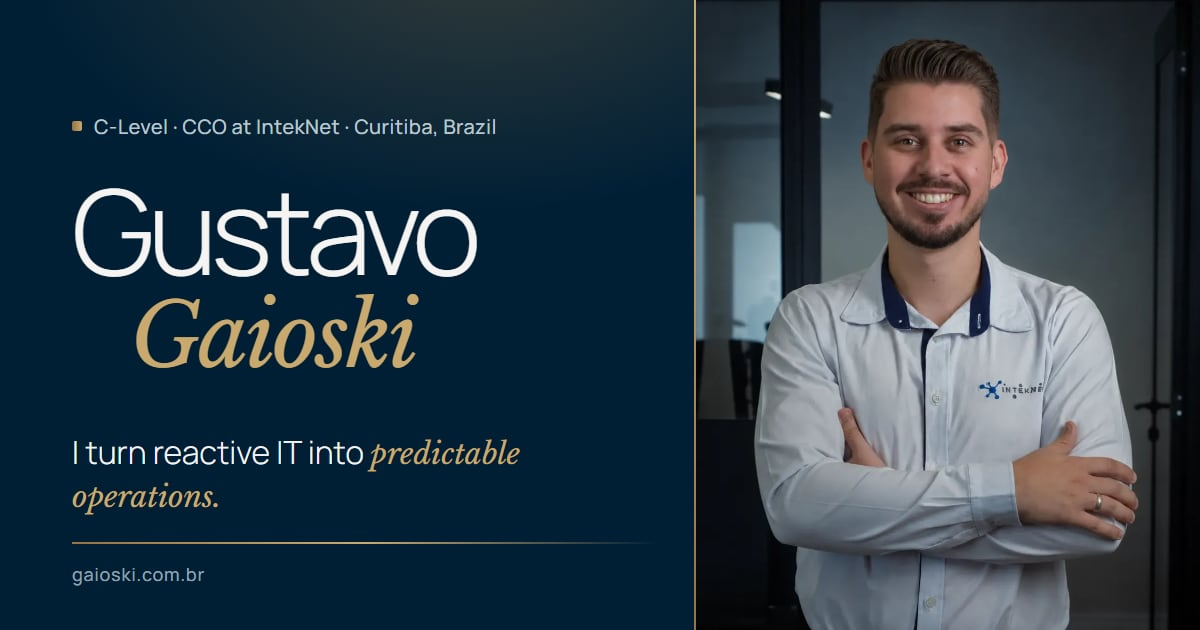
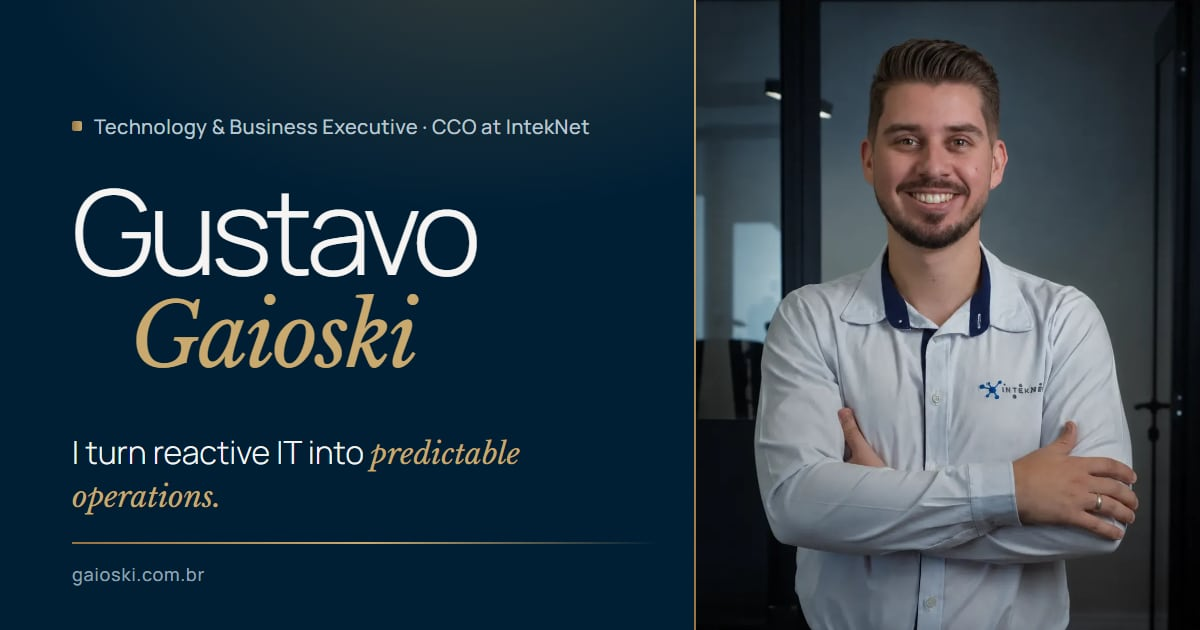
content: 'Executivo de Tecnologia e Negócios · CCO' no lugar de C-Level; volume de ~6 mil chamados/ano

Changed region(s): [[0.0617, 0.181, 0.4933, 0.2413]]

diff --git a/index.html b/index.html
@@ -6,7 +6,7 @@
   <meta http-equiv="Content-Security-Policy" content="default-src 'self'; img-src 'self' data:; style-src 'self'; font-src 'self'; script-src 'self'; connect-src 'self'; object-src 'none'; base-uri 'self'; form-action 'none'">
   <meta name="referrer" content="strict-origin-when-cross-origin">
   <title>Gustavo Gaioski · Tecnologia, infraestrutura e operações de TI</title>
-  <meta name="description" content="Gustavo Gaioski, C-Level (CCO) na IntekNet, em Curitiba. Onze anos em infraestrutura, Microsoft 365 e segurança; hoje à frente de novos negócios, parcerias e arquitetura de soluções.">
+  <meta name="description" content="Gustavo Gaioski, executivo de tecnologia e negócios, CCO na IntekNet, em Curitiba. Onze anos em infraestrutura, Microsoft 365 e segurança; hoje à frente de novos negócios, parcerias e arquitetura de soluções.">
   <link rel="canonical" href="https://gaioski.com.br/">
   <link rel="alternate" hreflang="pt-BR" href="https://gaioski.com.br/">
   <link rel="alternate" hreflang="en" href="https://gaioski.com.br/en/">
@@ -23,7 +23,7 @@
   <meta property="og:locale:alternate" content="en_US">
   <meta property="og:url" content="https://gaioski.com.br/">
   <meta property="og:title" content="Gustavo Gaioski">
-  <meta property="og:description" content="C-Level · CCO na IntekNet. Novos negócios, parcerias e arquitetura de soluções de TI, em Curitiba.">
+  <meta property="og:description" content="Executivo de Tecnologia e Negócios · CCO na IntekNet. Novos negócios, parcerias e arquitetura de soluções de TI, em Curitiba.">
   <meta property="og:image" content="https://gaioski.com.br/assets/img/og-image.jpg">
   <meta property="og:image:width" content="1200">
   <meta property="og:image:height" content="630">
@@ -76,8 +76,8 @@
       <div class="wrap hero__grid">
         <div>
           <p class="hero__kicker">
-            <span class="dot">C-Level · CCO na IntekNet</span>
-            <span>Novos negócios · Arquitetura de soluções · Infraestrutura</span>
+            <span class="dot">Executivo de Tecnologia e Negócios · CCO na IntekNet</span>
+            <span>Liderança · Arquitetura de soluções · Novos negócios</span>
           </p>
           <h1>Gustavo <span>Gaioski</span></h1>
           <p class="hero__lede">Transformo TI reativa em <em>operação previsível.</em></p>
@@ -116,7 +116,7 @@
             <footer>de um caso real, 2026</footer>
           </blockquote>
           <div class="about__text">
-            <p>Comecei em 2015 como estagiário de suporte, atendendo chamado de impressora e criando usuário no Active Directory. Onze anos depois continuo na mesma empresa, a IntekNet, agora no C-Level, como CCO. No meio do caminho passei por servidores, redes, firewall e Microsoft 365, e nos últimos anos pela gestão do time que cuida de tudo isso.</p>
+            <p>Comecei em 2015 como estagiário de suporte, atendendo chamado de impressora e criando usuário no Active Directory. Onze anos depois continuo na mesma empresa, a IntekNet, agora como CCO. No meio do caminho passei por servidores, redes, firewall e Microsoft 365, e nos últimos anos pela gestão do time que cuida de tudo isso.</p>
             <p>O que esse percurso me ensinou é que quase nenhum problema de TI é só técnico. O arquivo que não abre no OneDrive é arquitetura da informação. O backup que falha na restauração é falta de uma segunda camada. A pessoa que passa o primeiro dia esperando acesso é processo. Gosto de achar a causa antes de trocar a peça.</p>
             <p>Hoje estou à frente de novos negócios, parcerias e do crescimento da empresa. Na prática, isso quer dizer entrar antes do contrato: fazer o diagnóstico do ambiente, desenhar a arquitetura da solução e garantir que o que foi proposto é o que a operação consegue entregar.</p>
             <p class="signature"><img src="/assets/img/gustavo-480.webp" width="52" height="52" alt="Foto de Gustavo Gaioski" loading="lazy"><span><strong>Gustavo Gaioski</strong><span>CCO · IntekNet</span></span></p>
@@ -286,7 +286,7 @@
                 <div><dt>chamados resolvidos no prazo</dt><dd>99,3%</dd></div>
                 <div><dt>satisfação média, de 0 a 10</dt><dd>9,87</dd></div>
               </dl>
-              <p class="area__note">Medidos em um período da minha gestão do time técnico.</p>
+              <p class="area__note">Medidos em um período da minha gestão do time técnico, numa operação que hoje atende cerca de 6 mil chamados por ano.</p>
             </div>
             <ul class="stack"><li>Contratação</li><li>Reuniões 1:1</li><li>PDI</li><li>Metas mensais e anuais</li><li>Indicadores de desempenho</li><li>Gamificação</li><li>Cultura organizacional</li><li>Método EAG</li></ul>
           </article>

diff --git a/en/index.html b/en/index.html
@@ -6,7 +6,7 @@
   <meta http-equiv="Content-Security-Policy" content="default-src 'self'; img-src 'self' data:; style-src 'self'; font-src 'self'; script-src 'self'; connect-src 'self'; object-src 'none'; base-uri 'self'; form-action 'none'">
   <meta name="referrer" content="strict-origin-when-cross-origin">
   <title>Gustavo Gaioski · Technology, infrastructure and IT operations</title>
-  <meta name="description" content="Gustavo Gaioski, C-level executive (CCO) at IntekNet in Curitiba, Brazil. Eleven years in infrastructure, Microsoft 365 and security; now leading new business, partnerships and solution architecture.">
+  <meta name="description" content="Gustavo Gaioski, technology and business executive, CCO at IntekNet in Curitiba, Brazil. Eleven years in infrastructure, Microsoft 365 and security; now leading new business, partnerships and solution architecture.">
   <link rel="canonical" href="https://gaioski.com.br/en/">
   <link rel="alternate" hreflang="pt-BR" href="https://gaioski.com.br/">
   <link rel="alternate" hreflang="en" href="https://gaioski.com.br/en/">
@@ -23,7 +23,7 @@
   <meta property="og:locale:alternate" content="pt_BR">
   <meta property="og:url" content="https://gaioski.com.br/en/">
   <meta property="og:title" content="Gustavo Gaioski">
-  <meta property="og:description" content="C-Level · CCO at IntekNet. New business, partnerships and IT solution architecture, in Curitiba, Brazil.">
+  <meta property="og:description" content="Technology & Business Executive · CCO at IntekNet. New business, partnerships and IT solution architecture, in Curitiba, Brazil.">
   <meta property="og:image" content="https://gaioski.com.br/assets/img/og-image-en.jpg">
   <meta property="og:image:width" content="1200">
   <meta property="og:image:height" content="630">
@@ -76,8 +76,8 @@
       <div class="wrap hero__grid">
         <div>
           <p class="hero__kicker">
-            <span class="dot">C-Level · CCO at IntekNet</span>
-            <span>New business · Solution architecture · Infrastructure</span>
+            <span class="dot">Technology &amp; Business Executive · CCO at IntekNet</span>
+            <span>Leadership · Solution architecture · New business</span>
           </p>
           <h1>Gustavo <span>Gaioski</span></h1>
           <p class="hero__lede">I turn reactive IT into <em>predictable operations.</em></p>
@@ -116,7 +116,7 @@
             <footer>from a real case, 2026</footer>
           </blockquote>
           <div class="about__text">
-            <p>I started in 2015 as a support intern, fixing printers and creating Active Directory accounts. Eleven years later I'm still at the same company, IntekNet, now in the C-suite as CCO. Along the way I worked through servers, networks, firewalls and Microsoft 365, and more recently through leading the team that looks after all of it.</p>
+            <p>I started in 2015 as a support intern, fixing printers and creating Active Directory accounts. Eleven years later I'm still at the same company, IntekNet, now as CCO. Along the way I worked through servers, networks, firewalls and Microsoft 365, and more recently through leading the team that looks after all of it.</p>
             <p>If that path taught me anything, it's that almost no IT problem is purely technical. The file that won't open from OneDrive is an information architecture problem. The backup that fails to restore is a missing second layer. The new hire who spends day one waiting for access is a process problem. I like finding the cause before swapping the part.</p>
             <p>Today I lead new business, partnerships and company growth. In practice that means stepping in before the contract: assessing the environment, designing the solution architecture and making sure what we propose is what operations can actually deliver.</p>
             <p class="signature"><img src="/assets/img/gustavo-480.webp" width="52" height="52" alt="Photo of Gustavo Gaioski" loading="lazy"><span><strong>Gustavo Gaioski</strong><span>CCO · IntekNet</span></span></p>
@@ -286,7 +286,7 @@
                 <div><dt>tickets resolved on time</dt><dd>99.3%</dd></div>
                 <div><dt>average satisfaction, 0 to 10</dt><dd>9.87</dd></div>
               </dl>
-              <p class="area__note">Measured over a period of my time leading the technical team.</p>
+              <p class="area__note">Measured over a period of my time leading the technical team, in an operation that now handles about 6,000 tickets a year.</p>
             </div>
             <ul class="stack"><li>Hiring</li><li>1:1 meetings</li><li>Development plans</li><li>Monthly and annual goals</li><li>Performance metrics</li><li>Gamification</li><li>Organizational culture</li><li>EAG method</li></ul>
           </article>
